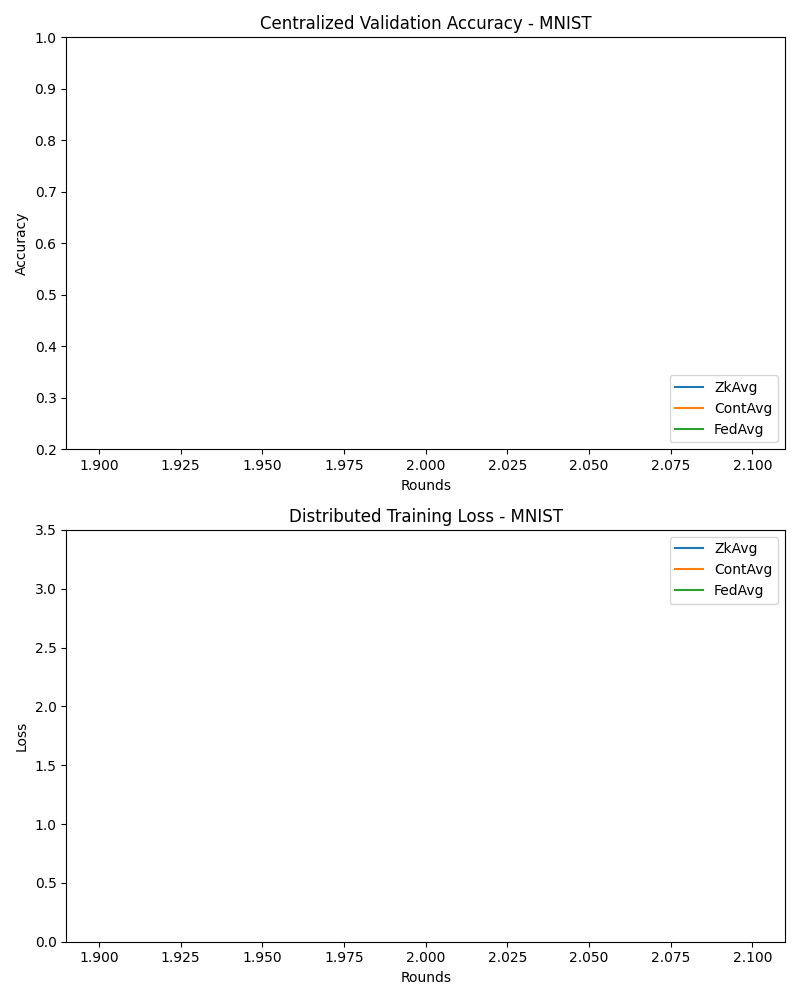
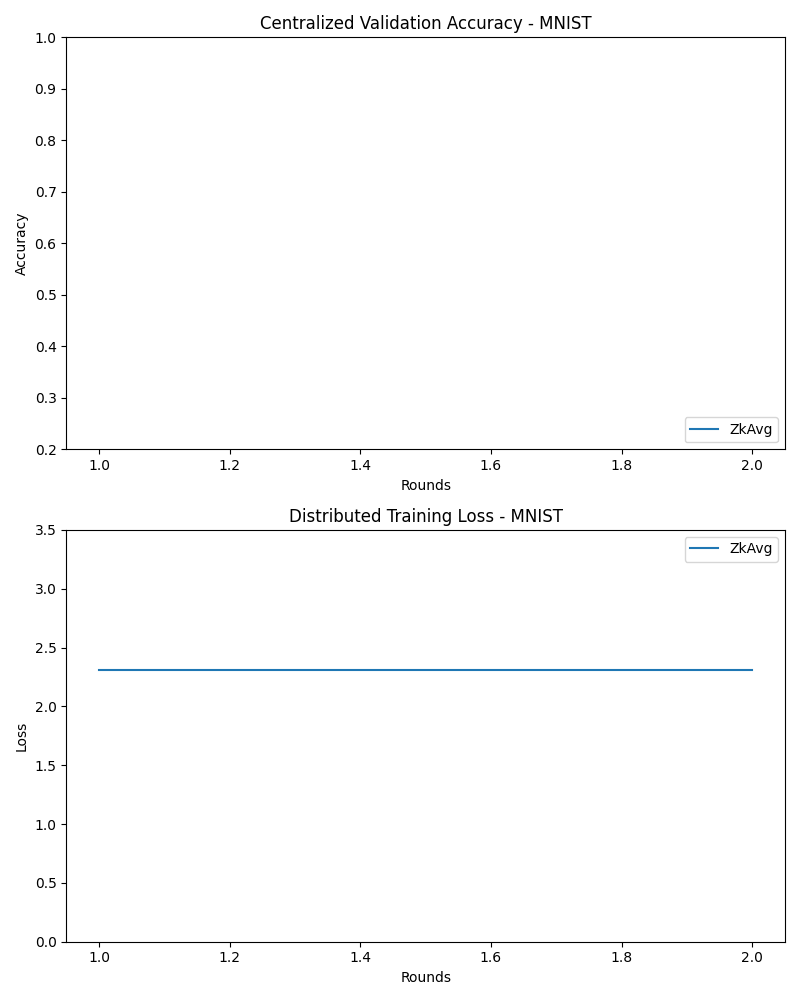
Argument parsing from command line for main simulation

diff --git a/main.py b/main.py
@@ -1,21 +1,25 @@
 import subprocess
-from clientcontributionfl.utils import cleanup_proofs, plot_comparison_from_files
-
+import argparse
+from clientcontributionfl.utils import cleanup_proofs, plot_comparison_from_files, check_arguments
 from flwr.common.config import get_project_config
 from pathlib import Path
 
-def run_simulation(strategy):
+def list_of_strings(arg):
+    return arg.split(',')
+
+
+def run_simulation(strategy, num_rounds, iid_ratio, num_nodes):
 
     if strategy == "FedAvg":
         fraction_fit = 0.3
     elif strategy == "ZkAvg" or strategy == "ContAvg":
         fraction_fit = 1.0
-        
+
     command = [
         "flower-simulation",
         "--app", ".",
-        "--num-supernodes", "10",
-        "--run-config", f'strategy="{strategy}" fraction_fit={fraction_fit}'
+        f"--num-supernodes", str(num_nodes),
+        "--run-config", f'num_rounds={num_rounds} strategy="{strategy}" fraction_fit={fraction_fit} iid_ratio={iid_ratio}'
     ]
     
     print(" ".join(command))
@@ -27,22 +31,37 @@ def run_simulation(strategy):
 
 # TODO in toml file check all unused parameters.
 def main():
-    # 1. clean existings directory of previous simulation
+    # 1. clean existing directory of previous simulation
     cleanup_proofs()
 
-    # 2. run simulation for different strategies
-    strategies = ["ZkAvg","ContAvg","FedAvg"]
-    for s in strategies:
-        run_simulation(s)
+    # 2. parse command line arguments
+    parser = argparse.ArgumentParser(description="Run federated learning simulations.")
+    parser.add_argument("--strategies", type=list_of_strings ,help="Comma-separated list of strategies to simulate. Available are FedAvg, ZkAvg, ContAvg")
+    parser.add_argument("--num_rounds", type=int, default=10,help="Number of rounds for the simulation.")
+    parser.add_argument("--num_nodes", type=int, default=10, help="Number of clients for the simulation.")
+    parser.add_argument("--iid_ratio", type=float, default=0.7, help="IID ratio for the dataset, must be between 0 and 1.")
+    args = parser.parse_args()
 
-    # 3. plot result
+
+    if not check_arguments(args):
+        parser.print_help()
+        return
+
+    strategies = args.strategies
+    num_rounds = args.num_rounds
+    iid_ratio = args.iid_ratio
+    num_nodes = args.nodes
+
+    # 3. run simulation for different strategies
+    for s in strategies:
+        run_simulation(s, num_rounds, iid_ratio, num_nodes)
+
+    # 4. save results 
     config = get_project_config(".")["tool"]["flwr"]["app"]["config"]
-    
-    #save_path = Path("clientcontributionfl/plots/results")
     results_path = Path(config["save_path"]) 
     plot_comparison_from_files(
-        results_path,
-        config,
+        save_plot_path=results_path,
+        config=config,
         strategies=strategies
     )
 

diff --git a/clientcontributionfl/utils/file_utils.py b/clientcontributionfl/utils/file_utils.py
@@ -1,6 +1,7 @@
 import shutil
 import os
 import json
+from typing import List
 
 def cleanup_proofs():
     """Remove the proofs directory and all its contents if it exists."""
@@ -13,7 +14,6 @@ def cleanup_proofs():
             print(f"Error while removing directory {proofs_dir}: {str(e)}")
 
 
-import json
 
 def extract_score_from_proof(proof_file_path: str):
     """
@@ -92,3 +92,40 @@ def forge_score_in_proof(proof_file_path, forged_score):
         raise KeyError("'inputs' field is missing in the proof.json file.") from e
     except ValueError as e:
         raise ValueError(f"Invalid value in 'inputs' field: {e}") from e
+    
+
+def check_arguments(args):
+    try:
+        _check_strategies(args.strategies)
+        _check_num_rounds(args.num_rounds)
+        _check_num_clients(args.num_nodes)
+        _check_iid_ratio(args.iid_ratio)
+        return True
+    except ValueError as e:
+        print(f"Invalid arguments: {str(e)}")
+        return False
+
+def _check_strategies(strategies: List[str]):
+    valid_strategies = {"FedAvg", "ZkAvg", "ContAvg"}
+    invalid_strategies = [s for s in strategies if s not in valid_strategies]
+    if invalid_strategies:
+        raise ValueError(f"Invalid strategies: {invalid_strategies}. Valid options are: {valid_strategies}")
+    return True
+
+def _check_num_clients(clients: int):
+    if clients < 1:
+        raise ValueError("Number of client must be greater than or equal to 1")
+    elif clients > 50:
+        raise ResourceWarning("A large number of clients may cause some clients to quit unexpectedly during training.")
+    return True
+
+
+def _check_num_rounds(rounds: int):
+    if rounds < 1:
+        raise ValueError("Number of rounds must be greater than or equal to 1")
+    return True
+
+def _check_iid_ratio(iid_ratio: float):
+    if not 0.0 <= iid_ratio <= 1.0:
+        raise ValueError("IID ratio must be between 0.0 and 1.0 (inclusive)")
+    return True

diff --git a/clientcontributionfl/server_utils.py b/clientcontributionfl/server_utils.py
@@ -103,18 +103,7 @@ def get_strategy(
         testloader: DataLoader
     ) -> Strategy:
 
-    
-    strategy_class = None
-    if cfg['strategy'] == 'FedAvg':
-        strategy_class = FedAvg
-    elif cfg['strategy'] == 'ContAvg': 
-        strategy_class = ContributionAvg
-    elif cfg['strategy'] == 'ZkAvg':
-        strategy_class = ZkAvg
-    else:
-        raise BaseException("Strategy not implemented")
-
-
+    #strategy_class = None
     common_args = {
         'fraction_fit': cfg['fraction_fit'],
         'fraction_evaluate': cfg['fraction_evaluate'],
@@ -124,9 +113,17 @@ def get_strategy(
         'on_fit_config_fn': get_on_fit_config(cfg),
         'on_evaluate_config_fn': get_on_evaluate_config(cfg),
         'evaluate_metrics_aggregation_fn': get_evaluate_metrics_aggregation(cfg),
-        
     }
 
+    if cfg['strategy'] == 'FedAvg':
+        strategy_class = FedAvg
+    elif cfg['strategy'] == 'ContAvg': 
+        strategy_class = ContributionAvg
+        common_args['selection_thr'] = cfg['selection_thr']
+    elif cfg['strategy'] == 'ZkAvg':
+        strategy_class = ZkAvg
+        common_args['selection_thr'] = cfg['selection_thr']
+    
     return strategy_class(**common_args)
 
 

diff --git a/clientcontributionfl/client_strategy/zkavg_client.py b/clientcontributionfl/client_strategy/zkavg_client.py
@@ -72,6 +72,7 @@ class ZkClient(NumPyClient):
         self.partition_label_counts = partition_label_counts
     
         self.dishonest = dishonest
+        self.dishonest_value = config["dishonest_value"]
 
         # Zero-Knowledge Proof parameters
         self.scale = config["scale"]
@@ -158,10 +159,8 @@ class ZkClient(NumPyClient):
             params[f"vrfkey_{self.node_id}"] = self.path_proof_dir
             
             # add additional value
-            if self.dishonest:
-                
-                forged_score = 10 
-                forge_score_in_proof(os.path.join(self.path_proof_dir, "proof.json"), forged_score)
+            if self.dishonest: 
+                forge_score_in_proof(os.path.join(self.path_proof_dir, "proof.json"), self.dishonest_value)
 
             
 

diff --git a/clientcontributionfl/server_strategy/zk_strategy.py b/clientcontributionfl/server_strategy/zk_strategy.py
@@ -41,11 +41,11 @@ class ZkAvg(FedAvg):
         discarding_threshold (float): A threshold below which clients are considered to have poor contributions and are filtered out.
     """
 
-    def __init__(self, *args, **kwargs):
+    def __init__(self, selection_thr: float, *args, **kwargs):
         super().__init__(*args, **kwargs)
         self.client_data = defaultdict(lambda: ["", 1, False])
-        self.zk = Zokrates()
-        self.discarding_threshold: float = 0.1  # TODO automatically compute this threshold
+        self.zk: Zokrates = Zokrates()
+        self.discarding_threshold: float = selection_thr  # TODO automatically compute this threshold
 
     def _normalize_scores(self):
         """

diff --git a/clientcontributionfl/server_strategy/contribution_strategy.py b/clientcontributionfl/server_strategy/contribution_strategy.py
@@ -42,10 +42,10 @@ class ContributionAvg(FedAvg):
         discarding_threshold (float): A threshold below which clients are considered to have poor contributions and are filtered out.
     """
 
-    def __init__(self, *args, **kwargs):
+    def __init__(self, selection_thr: float,*args, **kwargs):
         super().__init__(*args, **kwargs)
         self.client_data = defaultdict(lambda: 1)
-        self.discarding_threshold: float = 0.1  # TODO automatically compute this threshold
+        self.discarding_threshold: float = selection_thr  # TODO automatically compute this threshold
 
     def _normalize_scores(self):
         """

diff --git a/clientcontributionfl/client_strategy/contribution_client.py b/clientcontributionfl/client_strategy/contribution_client.py
@@ -33,7 +33,7 @@ class ContributionClient(FedAvgClient):
         self.scale = self.config["scale"]
         self.beta = self.config["beta"]
         self.thr = self.config["thr"]
-
+        self.dishonest_value = self.config["dishonest_value"]
 
     def fit(self, parameters, config):
         """Train model received by the server (parameters) using the data.
@@ -54,7 +54,7 @@ class ContributionClient(FedAvgClient):
 
             # create a forged score
             if self.dishonest:
-                score = 0 
+                score = self.dishonest_value
                 
 
             params[f"score_{self.node_id}"] = score

diff --git a/clientcontributionfl/utils/score.py b/clientcontributionfl/utils/score.py
@@ -45,8 +45,8 @@ def compute_score(counts: List[int], scale: int, beta: int, thr: int) -> int:
     """
     total = sum(counts)
     mean_val = total // len(counts)
-    #variance = sum((count - mean_val) ** 2 for count in counts)
-    variance = sum(abs(count - mean_val) for count in counts)
+    variance = sum((count - mean_val) ** 2 for count in counts)
+    #variance = sum(abs(count - mean_val) for count in counts)
     diversity = sum(1 for count in counts if count >= thr) + 1
     score = (beta * variance) + (diversity * scale)
     return int(score)

diff --git a/clientcontributionfl/utils/__init__.py b/clientcontributionfl/utils/__init__.py
@@ -1,3 +1,3 @@
 from .score import compute_score, compute_contribution
-from .file_utils import cleanup_proofs, extract_score_from_proof, forge_score_in_proof
+from .file_utils import cleanup_proofs, extract_score_from_proof, forge_score_in_proof, check_arguments
 from .plot_util import plot_comparison_from_files, plot_for_varying_alphas, plot_metric_from_history
